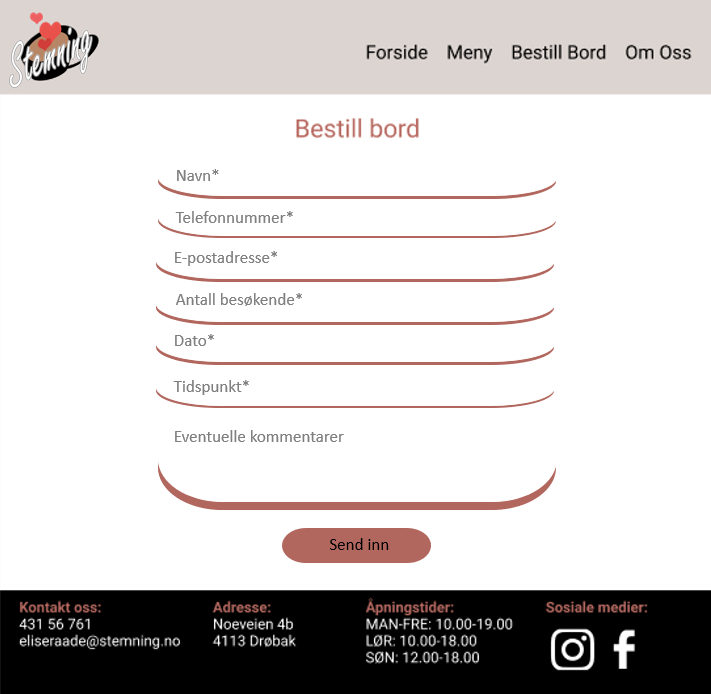
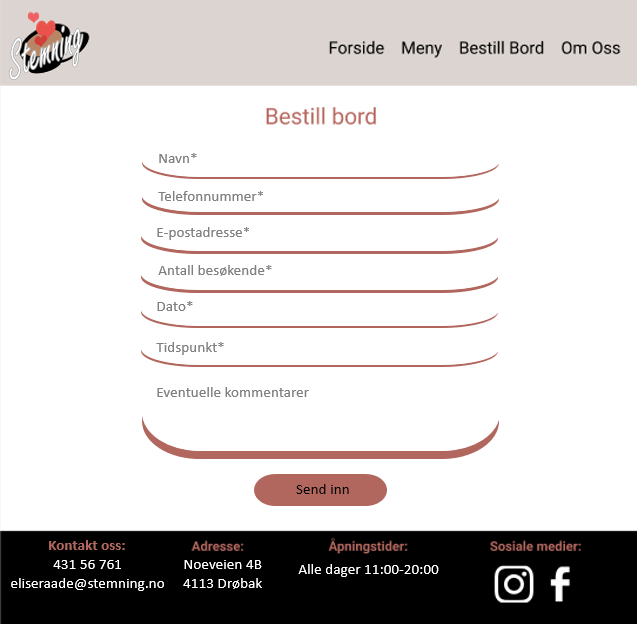
p3

diff --git a/Documents/P3_innlevering/P3_changes_4.html b/Documents/P3_innlevering/P3_changes_4.html
@@ -28,25 +28,21 @@
             <p>For å gjøre siden responsiv og bedre strukturert på mobil har vi lagt til en mediaquery som gjelder når skjermvidden er 890px eller under. Da havner bildene og paragrafene under hverandre på en vertikal linje isteden for side om side. Om bildet og den tilhørende paragrafen skulle vært side om side på en mobil hadde bilde vært veldig lite og teksten hadde vært på en tynn lang spalte. Vi legger til mediaquery-en for å gjøre siden mer mobilvennlig. I tillegg blir navigasjonsbaren i headeren ertsattet med en burgermeny når bredden på siden er 700px eller mindre.</p><br>
             <img src="images/tom_mobil_css_side.png" alt="Mobilversjon av meny" class="bilde">
             <img src="images/tom_mobil_css_side_uten_meny.png" alt="Mobilversjonen når menyen ikke er aktiv" class="bilde">
-            <strong>Felles - felles.html</strong>
-            <p>Vi har kombinert navigasjonsbaren og headeren så det er mindre kaos på toppen av siden før man kommer til det faktiske innholdet.</p><br>
+            <strong>Felles - felles.js</strong>
+            <p>Vi har kombinert navigasjonsbaren og headeren så det er mindre kaos på toppen av siden før man kommer til det faktiske innholdet. I footeren skulle vi opprinnelig kontaktinformasjon, adresse og sosiale media, eiere av nettsiden og utviklerne av den vil ligge i footeren. Men dette er endret til å inneholde åpningstider og til ikke å inneholde eiere og utviklere</p><br>
             <strong>Bildekarusell - forside.js</strong>
             <p>Den opprinnelige ideen var at for hvert bilde i bildekarusellen så skulle det stå en kort tekst over bildet om en nyhet, et slagord eller en velkomst til kafeen, men vi byttet dette ut med en fast tekst, og så rullerer bildene under teksten.</p><br>
             <strong>Meny - meny.html</strong>
             <p>I P2 står det at det skal skilles mellom vegetarisk og vegansk, men vi bruker bare vegetarisk fordi vi ikke serverer noe som er vegansk. I tillegg har vi flyttet prisen på retten til rett under beskrivelse og allergener, det ser mer oversiktlig ut. I stedet for å sette alle rettene i en lang liste, har vi valgt å vise menyen i forskjellige seksjoner, slik at den er mer oversiktlig. I tillegg vil det være lettere for brukeren å navigere denne menyen, siden det ikke er nødvendig å scrolle mye.</p><br>
             <img src="images/meny.png" alt="Meny" class="bilde">
             <strong>Bordbestilling - bestilling.html</strong>
-            <p>I utgangspunktet skulle brukeren få opp et varsel dersom vedkommende forsøkte å sendte inn en bestilling på bord for mer enn ti personer. Vi har valgt å endre dette til å skrive at man ikke kan bestille bord for mer enn ti personer i beskrivelsen av skjemaet, for så å sette ti som grense for mulig input. Vi har valgt å gjøre denne endringen for å gjøre brukeren klar over denne begrensningen før vedkommende sender inn skjemaet fordi det er unødvendig at brukeren fyller inn et skjema som uansett ikke vil sendes inn, ettersom vedkommende må kontakte kaféen for å bestille bord. Vi har valgt å slå sammen "Fornavn" og "Etternavn" til "Navn", da det er unødvendig å ha to felter for dette; dersom brukeren kun skulle fylle ut ett av navnene, vil kaféen fortsatt kunne se hvem som har reservert bord. I tillegg har vi valgt å erstatte de små spørsmålstegnene fra P2 med placeholdere i input-feltene, ettersom brukeren ikke trenger mer informasjone enn disse placeholderne for å kunne fylle ut skjemaet. 
-                
-            Vi har brukt JavaScript for å implementere placeholdere på "Dato" og "Tidspunkt". Når man ikke benytter seg av inputfeltene har begge inputfeltene type="text" for å tillate placeholder. onmouseover() endres typen til de respektive typene type="date"/type="time". onmouseleave() endres typen tilbake til text så placeholderen vises igjen, men om inputfeltet er focused skal onmouseleave() ikke være aktiv, altså er typene date/time mens feltene er i bruk.Vi har valgt at kunden ikke kan bestille bord for mer enn tre måneder fram i tid, da dette virker realistisk.
-
-            Merk at inputfeltene ser noe annerledes ut enn på bildet under
-            </p><br>
+            <p>I utgangspunktet skulle brukeren få opp et varsel dersom vedkommende forsøkte å sendte inn en bestilling på bord for mer enn ti personer. Vi har valgt å endre dette til å skrive at man ikke kan bestille bord for mer enn ti personer i beskrivelsen av skjemaet, for så å sette ti som grense for mulig input. Vi har valgt å gjøre denne endringen for å gjøre brukeren klar over denne begrensningen før vedkommende sender inn skjemaet fordi det er unødvendig at brukeren fyller inn et skjema som uansett ikke vil sendes inn, ettersom vedkommende må kontakte kaféen for å bestille bord. Vi har valgt å slå sammen "Fornavn" og "Etternavn" til "Navn", da det er unødvendig å ha to felter for dette; dersom brukeren kun skulle fylle ut ett av navnene, vil kaféen fortsatt kunne se hvem som har reservert bord. I tillegg har vi valgt å erstatte de små spørsmålstegnene fra P2 med placeholdere i input-feltene, ettersom brukeren ikke trenger mer informasjone enn disse placeholderne for å kunne fylle ut skjemaet.</p>
+            <p>Vi har brukt JavaScript for å implementere placeholdere på "Dato" og "Tidspunkt". Når man ikke benytter seg av inputfeltene har begge inputfeltene type="text" for å tillate placeholder. onmouseover() endres typen til de respektive typene type="date"/type="time". onmouseleave() endres typen tilbake til text så placeholderen vises igjen, men om inputfeltet er focused skal onmouseleave() ikke være aktiv, altså er typene date/time mens feltene er i bruk.Vi har valgt at kunden ikke kan bestille bord for mer enn tre måneder fram i tid, da dette virker realistisk.</p>
+            <p>Merk at inputfeltene ser noe annerledes ut enn på bildet under</p><br>
             <img src="images/bestilling.png" alt="Bordbestilling" class="bilde">
             <strong>Om oss - info.html</strong>
-            <p>Vi tenkte først å lage en snapchat-konto for kafeen vår, men vi innser at det er ganske uvanlig, og sannsynligvis ikke noe en kafe-eier hadde hatt lyst til å opprettholde, derfor tar vi den ut av de sosiale mediene vi dekker. Vi kan heller ikke fysisk lage en facebookkonto for kafeen, da ifølge facebook sine rettningslinjer er dette ulovlig. Dermed har kafeen kun en Instagramkonto. Vi har også satt posisjonen på Google Maps til Oscarsborg Festning i Drøbak, ettersom kafeen ikke har en faktisk adresse. Vi har også valgt å implementere Google Maps uten å bruke JavaScript, både fordi vi måtte betale for å bruke API key og fordi det var enklere å kun bruke HTML. Vi ble nødt til å skalere kartet etter pixler i stedet for prosent/andre enheter for å beholde kartet som et interaktivt kart i stedet for et bilde av kartet.
-                
-            Bildene heter ikke det samme som vi sa i P2 fordi vi har fjernet/byttet ut bilder. Vi har også valgt å inkludere kontaktinformasjon i både footer og på denne siden fordi enkelte brukere kan være vant til å se i footer for å finne denne informasjonen, mens andre forventer å se den på Om oss-siden (ikke direkte endring, mer en forklaring).</p><br>
+            <p>Vi tenkte først å lage en snapchat-konto for kafeen vår, men vi innser at det er ganske uvanlig, og sannsynligvis ikke noe en kafe-eier hadde hatt lyst til å opprettholde, derfor tar vi den ut av de sosiale mediene vi dekker. Vi kan heller ikke fysisk lage en facebookkonto for kafeen, da ifølge facebook sine rettningslinjer er dette ulovlig. Dermed har kafeen kun en Instagramkonto. Vi har også satt posisjonen på Google Maps til Oscarsborg Festning i Drøbak, ettersom kafeen ikke har en faktisk adresse. Vi har også valgt å implementere Google Maps uten å bruke JavaScript, både fordi vi måtte betale for å bruke API key og fordi det var enklere å kun bruke HTML. Vi ble nødt til å skalere kartet etter pixler i stedet for prosent/andre enheter for å beholde kartet som et interaktivt kart i stedet for et bilde av kartet.</p>
+            <p>Bildene heter ikke det samme som vi sa i P2 fordi vi har fjernet/byttet ut bilder. Vi har også valgt å inkludere kontaktinformasjon i både footer og på denne siden fordi enkelte brukere kan være vant til å se i footer for å finne denne informasjonen, mens andre forventer å se den på Om oss-siden.</p><br>
             <strong>JavaScript-filene</strong>
             <p>Header og footer: Siden header og footer er lik på alle sidene, er det unødvendig å kopiere koden inn på hver enkelt HTML side. Istedenfor lagde vi et felles JavaScript dokument hvor all HTML kode for header og footer lå, for så å bruke JS for å vise de på sidene. </p>
             <p>Bordbestillings-regulering: Når man bruker input-felt, så er det mulig å bruke max og minimums attributter for å tvinge brukerne til å sette de verdiene vi ønsker, ellers vil de få en feilmelding. Derimot fungerte ikke disse attributt som ønsket når vi kun la de inn i HTML dokumentet, så de måtte hardkodes i JS, dette måtte vi gjøre både for dato og tidspunkt. Her la vi også til at minimum og max verdiene på dato inputfeltet var satt til dagens dato og fire måneder frem i tid. </p>
@@ -54,7 +50,6 @@
             <p>Bildekarusell: For bildekarusellen droppet vi at bildene skulle blåses opp når man trykket på de, da bildene fylte uansett nesten hele skjermen, og var dermed stor nok fra før av. Vi kom fram til at å da blåse opp bildene kun ville skape forvirring. I tillegg ble ikke overgangen mellom bildene en forskyvning, da dette ville krevd en helt annen type funksjon enn den vi bruker nå.  </p>
             <br>
             <strong>Forandringer etter tilbakemeldinger</strong>
-
             <p>Forside: Vi gjorde knappene på bildekarusellen mindre gjennomsiktig slik at de syntes bedre, og bakgrunnen har vi gjort mørkere så teksten vises bedre over de ulike bilde. Vi gjorde disse forandringen etter tilbakemelding på at knappene og teksten var vanskelige å se.</p>
             <p>Meny: Vi la tekst ved vegetarikonet, da det kom en kommentar om at det heller så ut som pynt enn at ikonet var koblet til paragrafen.</p>
             <p>Bordbestilling: Vi hadde et problem med javascripten til bestillingsskjemaet som ble ordnet opp i, og som nå skal fungere som tenkt.</p>
